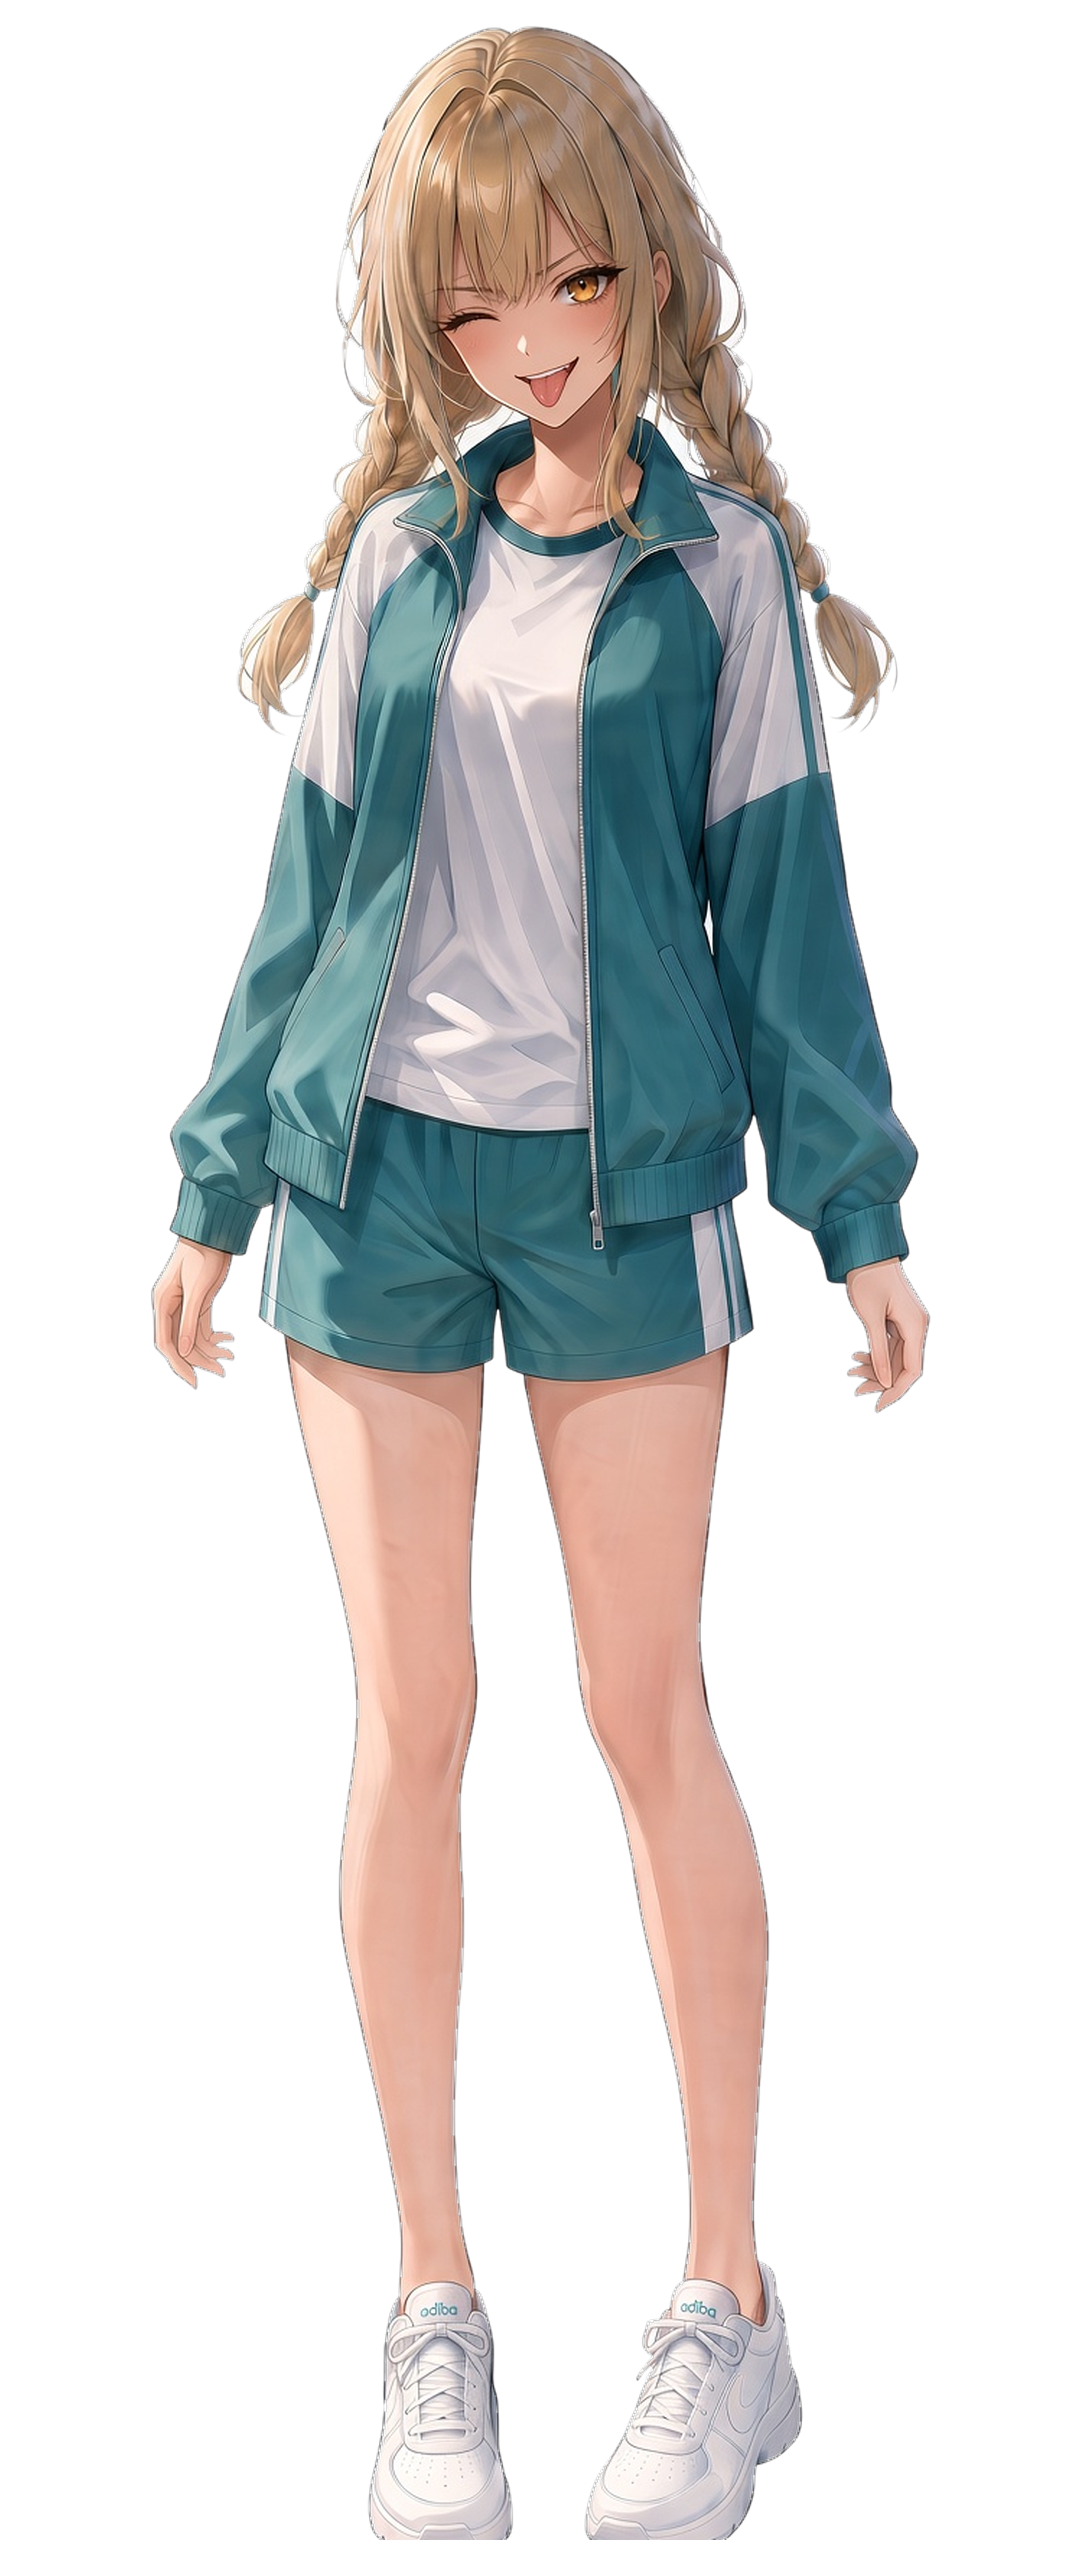
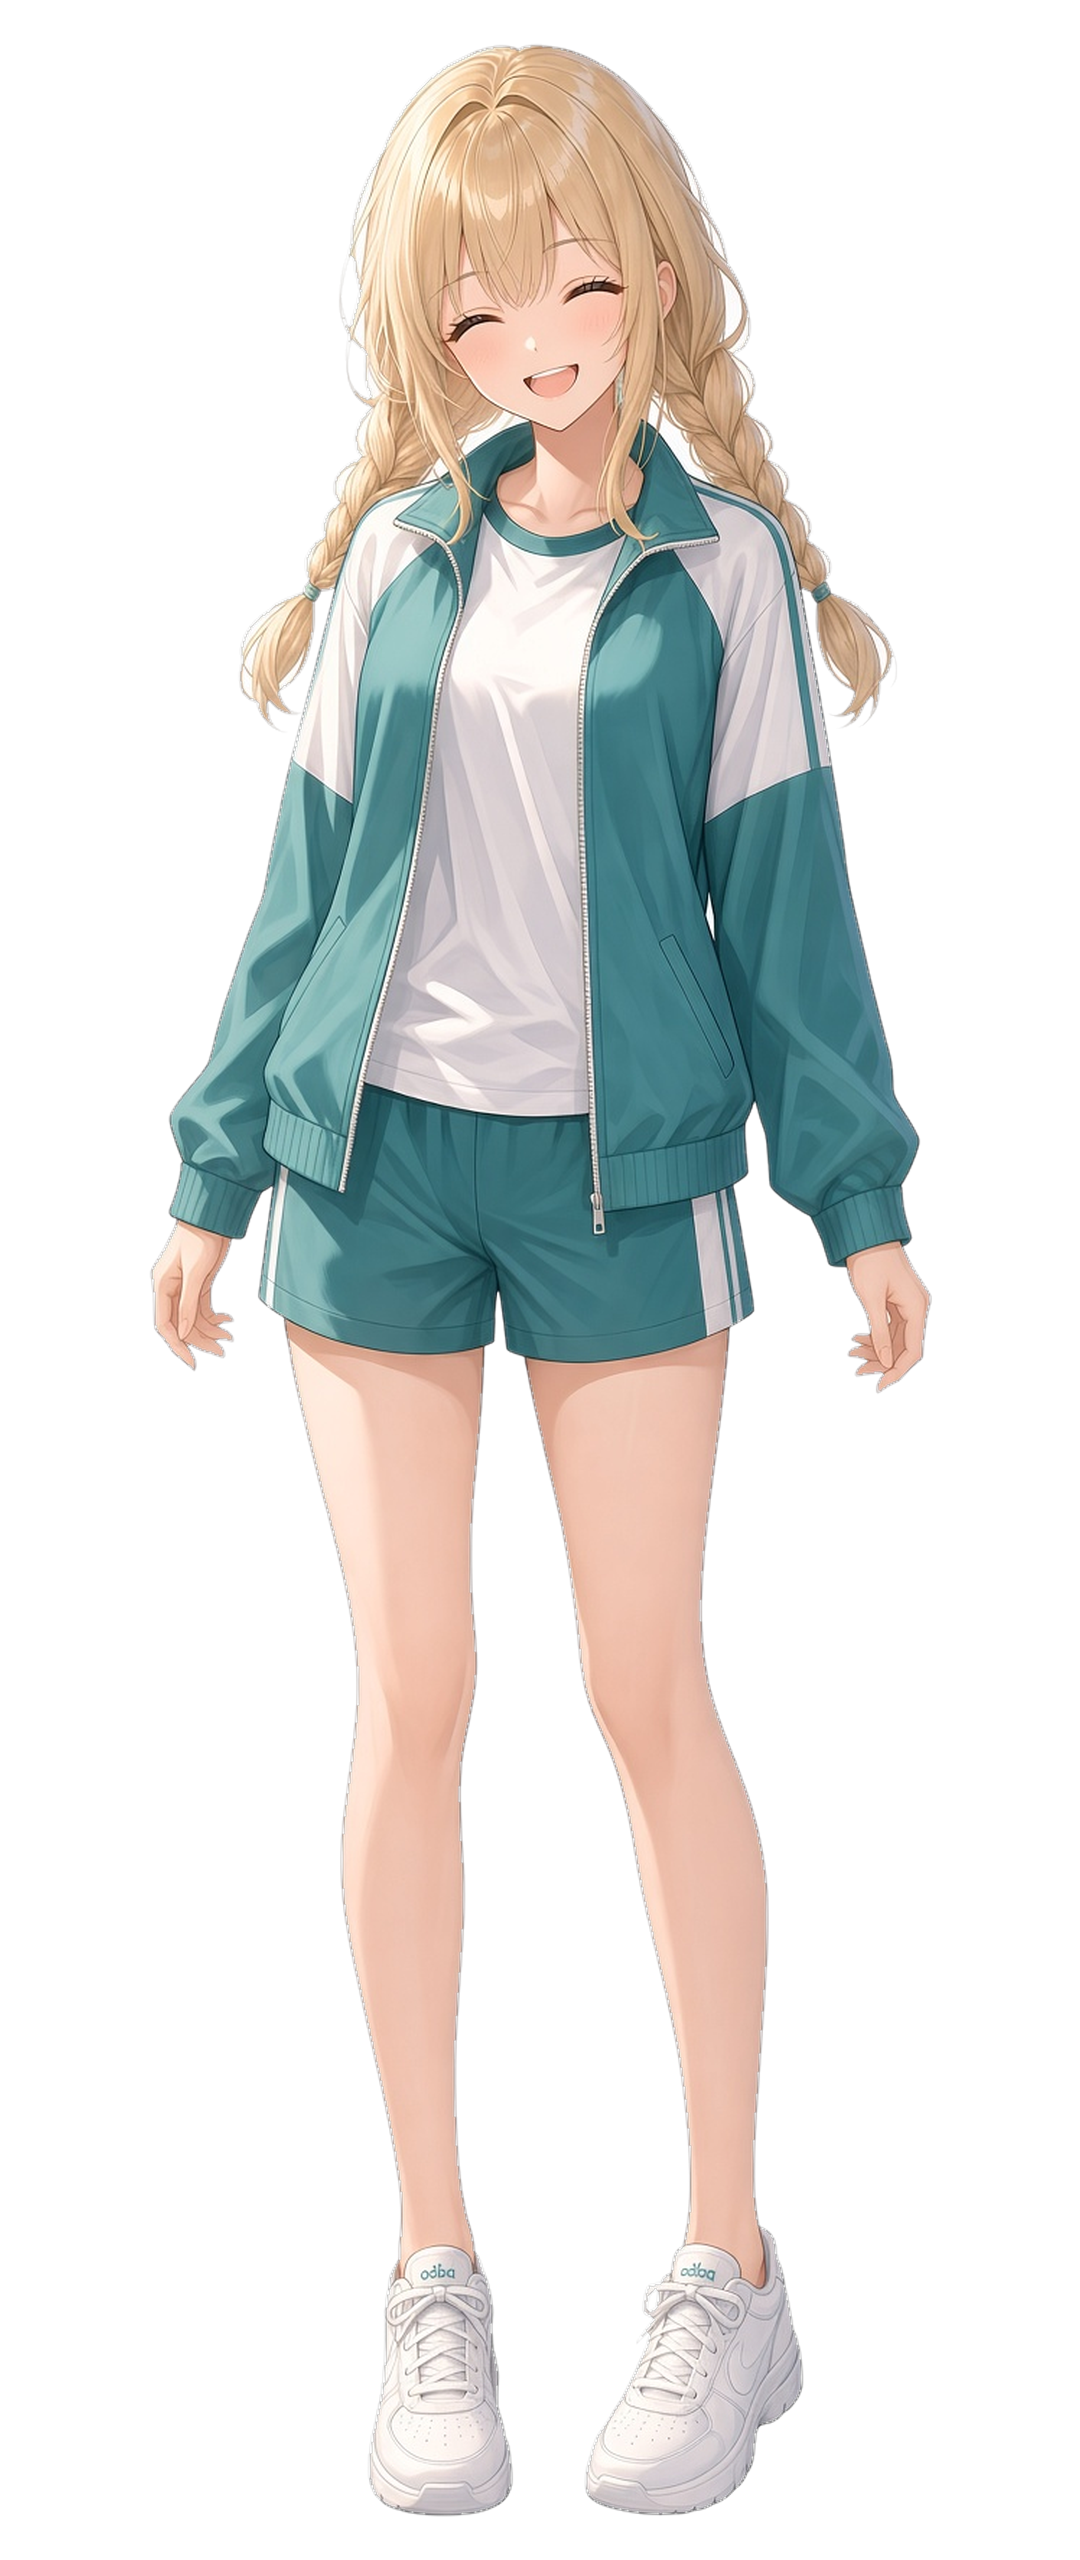
v4.3.38: replace scary joke expression sprites with a warm closed-eye giggle (Mio, Kotone) and lock pose in the asset generator

diff --git a/index.html b/index.html
@@ -551,7 +551,7 @@
         <div class="flex items-center gap-1 min-w-0">
           <h1 class="text-xs sm:text-sm font-black tracking-tight text-slate-800 dark:text-slate-100 whitespace-nowrap flex items-center gap-1">
             Gemini Fit
-            <span class="text-[9px] font-black text-rose-500 bg-rose-50 dark:bg-rose-950/60 border border-rose-200 dark:border-rose-800 px-1.5 py-0.5 rounded-full inline-block">v4.3.37</span>
+            <span class="text-[9px] font-black text-rose-500 bg-rose-50 dark:bg-rose-950/60 border border-rose-200 dark:border-rose-800 px-1.5 py-0.5 rounded-full inline-block">v4.3.38</span>
           </h1>
           <span id="headerTodayDate" class="text-[9px] font-extrabold text-pink-500 dark:text-pink-400 bg-pink-500/10 px-1.5 py-0.5 rounded-full border border-pink-500/20 whitespace-nowrap inline-block">10.24 (토)</span>
         </div>
@@ -2006,11 +2006,11 @@
 
   </div>
 
-  <script src="./weekly_reports.js?v=4.3.37"></script>
-  <script src="./dialogue_pool.js?v=4.3.37"></script>
-  <script src="./trainer_episodes.js?v=4.3.37"></script>
-  <script src="./kotonoha_data.js?v=4.3.37"></script>
-  <script src="./kotonoha_engine.js?v=4.3.37"></script>
+  <script src="./weekly_reports.js?v=4.3.38"></script>
+  <script src="./dialogue_pool.js?v=4.3.38"></script>
+  <script src="./trainer_episodes.js?v=4.3.38"></script>
+  <script src="./kotonoha_data.js?v=4.3.38"></script>
+  <script src="./kotonoha_engine.js?v=4.3.38"></script>
   <script>
     const audioCtx = new (window.AudioContext || window.webkitAudioContext)();
     function playBeep(freq, duration = 0.07) {
@@ -10105,6 +10105,13 @@ ${err.message}
       </p>
 
       <div class="p-2.5 rounded-2xl bg-[#2a1d24] border border-[#5a3440] text-[11px] space-y-1">
+        <div class="font-black text-[#ffd6de]">🌟 표정이 더 다정해졌사와요</div>
+        <div class="text-[#c9b1aa] leading-relaxed">
+          미오와 코토네의 <strong>장난/웃음 표정</strong>을 새로 그렸어요. 혀를 내민 낯선 표정 대신, 두 눈을 감고 환하게 웃는 <strong>"에헤헤"</strong> 표정으로 교체했사옵니다.
+        </div>
+      </div>
+
+      <div class="p-2.5 rounded-2xl bg-[#2a1d24] border border-[#5a3440] text-[11px] space-y-1">
         <div class="font-black text-[#ffd6de]">🩹 운동 기록이 더 편해졌사와요</div>
         <div class="text-[#c9b1aa] leading-relaxed">
           무게·횟수·세트는 <strong>✏ 버튼을 눌렀을 때만</strong> 수정되고, 종목 순서를 위아래로 바꿀 수 있어요. 전날 설정한 세트 수는 그대로 이어지고, 2kg 재활 세트 수도 직접 조절할 수 있사옵니다.
@@ -10113,7 +10120,7 @@ ${err.message}
 
       <div class="p-2.5 rounded-xl bg-[#22181d] border border-[#3b272f] text-[11px] text-[#e0cfca] space-y-1">
         <div class="flex items-center justify-between font-bold text-[#f29aa8]">
-          <span>현재 앱 버전: v4.3.37 (言の葉茶屋)</span>
+          <span>현재 앱 버전: v4.3.38 (言の葉茶屋)</span>
           <span id="updateReminderDayBadge" class="text-[10px] text-[#b89d97]">매주 수요일</span>
         </div>
         <div class="text-[10px] text-[#9e847e]">아래 버튼을 눌러 요청문을 복사한 뒤, 에이전트에 바로 붙여넣기 하시면 즉시 업데이트가 진행됩니다.</div>

diff --git a/sw.js b/sw.js
@@ -1,5 +1,5 @@
-// Gemini Fit Progressive Web App (PWA) Service Worker v4.3.37
-const CACHE_NAME = 'geminifit-pwa-v4.3.37';
+// Gemini Fit Progressive Web App (PWA) Service Worker v4.3.38
+const CACHE_NAME = 'geminifit-pwa-v4.3.38';
 
 self.addEventListener('install', (e) => {
   self.skipWaiting();

diff --git a/generate_assets_v4311.py b/generate_assets_v4311.py
@@ -138,7 +138,7 @@ EXPRESSIONS = {
     "shy": "shy blushing expression, flushed red cheeks, embarrassed awkward smile, eyes averted",
     "shock": "shocked surprised expression, wide round eyes, open mouth, flustered",
     "dark": "cool serious dark expression, shadowed eyes without highlights, emotionless cold stare",
-    "joke": "playful mischievous wink, tongue sticking out slightly, cheeky grin",
+    "joke": "playful happy giggle, both eyes closed in cheerful upward-curving arcs, bright open-mouth laugh showing upper teeth, warm friendly cheeky grin, tongue NOT visible, facial expression only",
     "wink": "bright cheerful wink with one eye closed, energetic encouragement smile, pointing finger pose",
     "pout": "cute sulking pout, puffed cheeks, lower lip pushed out, grumpy but adorable",
     "cry": "teary sad expression, watery eyes about to cry, quivering lower lip, trembling eyebrows",
@@ -346,9 +346,12 @@ def build_jobs(phase: str):
             for expr, edesc in EXPRESSIONS.items():
                 if expr == "idle":
                     continue
-                prompt = (f"Keep the EXACT same character in the reference image, same body, same outfit, "
-                          f"same pose, same plain pure white background and same full-body framing. "
+                prompt = (f"Keep the EXACT same character in the reference image: identical body, "
+                          f"identical outfit, identical standing pose with both arms hanging relaxed at her sides "
+                          f"and both feet flat on the ground, identical plain pure white background, "
+                          f"identical full-body framing and camera angle. "
                           f"Only change her facial expression to: {edesc}. "
+                          f"Do NOT move her arms, hands, legs or feet, do NOT add props. "
                           f"{info['desc']}, {STYLE}")
                 jobs.append((f"{char}/{expr}", prompt, WORK / char / f"{expr}_raw.png",
                              [WORK / char / "base_raw.png"], "9:16 portrait"))
